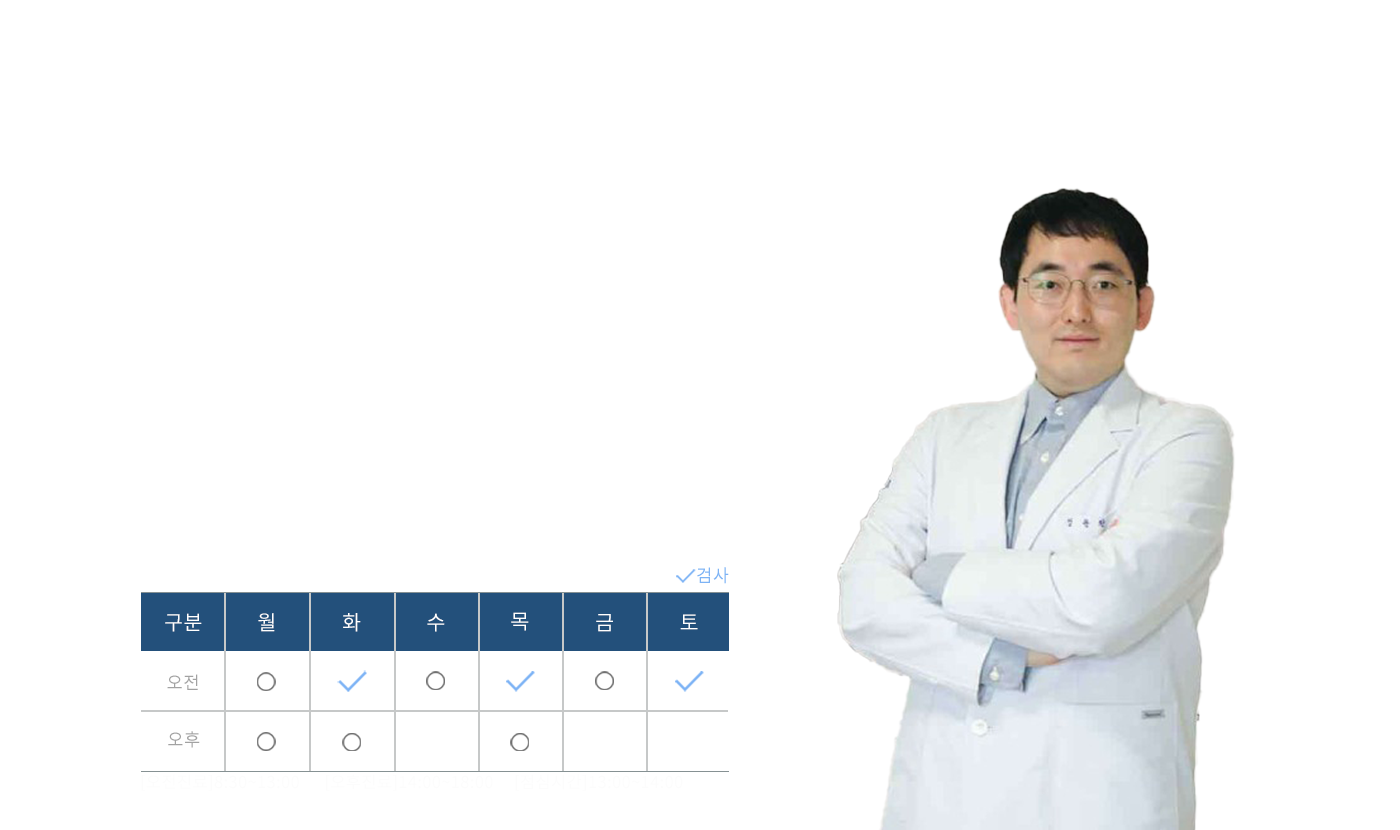
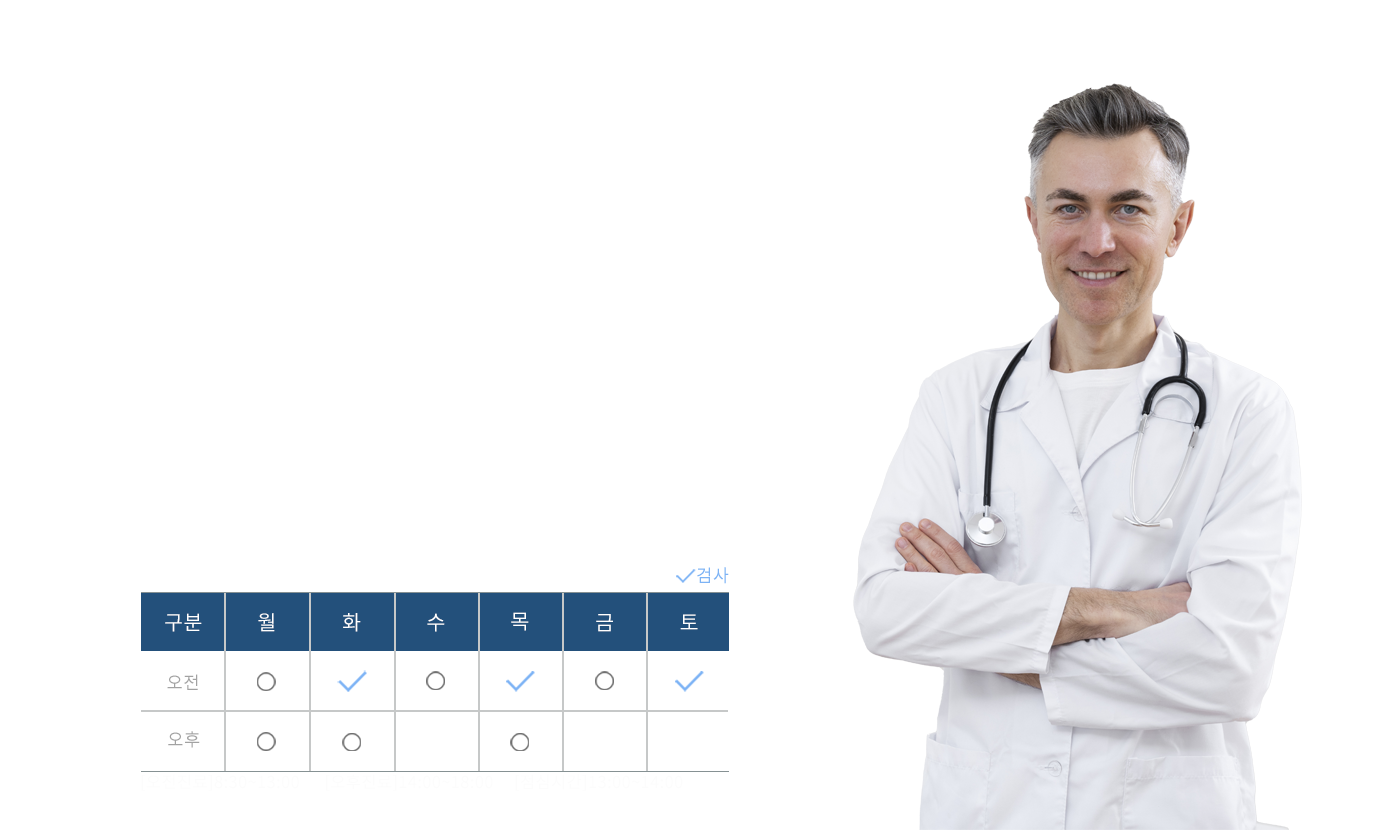
file_10 commit

Changed region(s): [[0.5836, 0.0904, 0.9214, 1.0]]

diff --git a/hyperdoctor_sample_2/index.html b/hyperdoctor_sample_2/index.html
@@ -3,7 +3,7 @@
 <head>
     <meta charset="UTF-8">
     <meta name="viewport" content="width=device-width, initial-scale=1.0, maximum-scale=1, minimum-scale=1">
-    <title>서울 W 내과 위례점</title>
+    <title>하이퍼 메디컬 병원</title>
     <link rel="stylesheet" href="css/style.css">
     <link rel="stylesheet" href="css/animate.min.css">
     <link rel="stylesheet" href="css/slick.css">
@@ -23,7 +23,7 @@
     <!-- s:open graph -->
     <meta property="og:title" content="HYPER MEDICINE Hospital">
     <meta property="og:url" content="">
-    <meta property="og:image" content="http://w-seongnam.com/images/kakao.png">
+    <meta property="og:image" content="">
     <meta property="og:type" content="website">
     <meta property="og:description" content="하이퍼 메디컬 병원입니다.">
 </head>
@@ -68,20 +68,20 @@
         <section id="section01" class="visual">
             <div class="slide">
                 <div class="visual01">
-                    <img src="img/visual_01-txt.png" alt="">
+                    <img src="img/visual_01-txt-1.png" alt="">
                 </div>
                 <div class="visual02">
-                    <img src="img/visual_02-txt.png" alt="">
+                    <img src="img/visual_02-txt-1.png" alt="">
                 </div>
                 <div class="visual03">
-                    <img src="img/visual_03-txt.png" alt="">
+                    <img src="img/visual_03-txt-1.png" alt="">
                 </div>
             </div>
         </section>
         <!-- SE02 -->
         <section id="section02" class="subJect">
             <div id="inner">
-                <h2 class="Tit animate" data-animate="fadeIn" data-duration="1s" data-delay="0s"><span>W-MEDICAL CENTER wirye</span><br>[ CLINIC SUBJECT ]<p>진료과목에 대해 안내드립니다.</p></h2>
+                <h2 class="Tit animate" data-animate="fadeIn" data-duration="1s" data-delay="0s"><span>HYPER MEDICAL CENTER</span><br>[ CLINIC SUBJECT ]<p>진료과목에 대해 안내드립니다.</p></h2>
                 <div class="layout-gird animate" data-animate="fadeIn" data-duration="1s" data-delay="0s">
                     <div class="subJect_cont1 animate" data-animate="fadeIn" data-duration="1s" data-delay="0s">
                         <div class="cardHeader">
@@ -195,17 +195,17 @@
         <!-- SE03 -->
         <section id="section03" class="aboutUs">
             <div id="inner" >
-                <h2 class="Tit animate" data-animate="fadeIn" data-duration="1s" data-delay="0s"><span>W-MEDICAL CENTER wirye</span><br>[ CLINIC SPECIALIST ]<p>우리동네 의료진을 소개합니다.</p></h2>
+                <h2 class="Tit animate" data-animate="fadeIn" data-duration="1s" data-delay="0s"><span>HYPER MEDICAL CENTER</span><br>[ CLINIC SPECIALIST ]<p>우리동네 의료진을 소개합니다.</p></h2>
                 <div class="upper">
                     <div class="swiper mySwiper">
                         <div class="swiper-wrapper">
                             <div class="swiper-slide">
-                                <img src="./img/SE03_about_int.png" alt="정문찬원장님약력_pc" class="onlyPc"/>
-                                <img src="./img/SE03_about_int-mo.png" alt="정문찬원장님약력_mo" class="onlyM"/>
+                                <img src="./img/SE03_about_int.png" alt="홍길동장님약력_pc" class="onlyPc"/>
+                                <img src="./img/SE03_about_int-mo.png" alt="홍길동원장님약력_mo" class="onlyM"/>
                             </div>
                             <div class="swiper-slide">
-                                <img src="./img/SE03_about_int.png" alt="박진주원장님약력_pc" class="onlyPc"/>
-                                <img src="./img/SE03_about_int-mo.png" alt="박진주원장님약력_pc" class="onlyM"/>
+                                <img src="./img/SE03_about_int-2.png" alt="홍길동원장님약력_pc" class="onlyPc"/>
+                                <img src="./img/SE03_about_int-mo.png" alt="홍길동원장님약력_pc" class="onlyM"/>
                             </div>
                         </div>
 
@@ -217,7 +217,7 @@
                     
                     <script>
                         //의료진소개
-                        var bullet = ['정문찬 원장', '정문찬원장'];
+                        var bullet = ['홍길동 원장', '홍길동원장'];
                         var swiper = new Swiper('.mySwiper', {
                             
                         pagination: {
@@ -254,7 +254,7 @@
             </div>
             <div id="inner">
                
-                <h2 class="Tit animate" data-animate="fadeIn" data-duration="1s" data-delay="0s"><span>W-MEDICAL CENTER wirye</span><br>[ 건강검진센터 ] 
+                <h2 class="Tit animate" data-animate="fadeIn" data-duration="1s" data-delay="0s"><span>HYPER MEDICAL CENTER wirye</span><br>[ 건강검진센터 ] 
                 </h2>
 
                 <div class="contTop">
@@ -572,7 +572,7 @@
         <!-- footer -->
         <footer>
             <div id="inner">
-                <h5 class="ftrLogo"><img src="img/footerLogo.png" alt="푸터로고"></h5>
+                <h5 class="ftrLogo"><img src="img/footerLogo-2.png" alt="푸터로고"></h5>
                 <p class="txt">서울 W내과 위례점 대표: 정문찬 | 사업자 번호: 303-92-02090<br>
                                소재지: 경기도 하남시 학암동 653 가락공판장건물 3층<br>
                                <span>2023©서울W내과-위례점 All rights reserved.</span> </p>

diff --git a/hyperdoctor_sample_2/css/style.css b/hyperdoctor_sample_2/css/style.css
@@ -1,4 +1,6 @@
 @charset "utf-8";
+@import url("https://fonts.googleapis.com/css2?family=Noto+Sans+KR:wght@300;400;500;700;900&family=Russo+One&display=swap");
+
 
 /* reset */
 * {margin: 0;padding: 0;}
@@ -69,7 +71,7 @@ body {
   #top_group h1 {
     width: 270px;
     height: 52px;
-    background: url(../img/Logo-2.png) no-repeat;
+    background: url(../img/Logo-3.png) no-repeat;
     text-indent: -9999px;
     position: absolute;
     top: 50%;
@@ -119,7 +121,7 @@ body {
 .visual .slide {width: 100%;height: 100%;border: none;}
 .visual .slide .visual01 {
   position: relative;
-  background: url(../img/visual_01.png) center;
+  background: url(../img/visual_01-1.png) center;
   background-size: cover;
 }
 .visual .slide .visual01 img {
@@ -130,7 +132,7 @@ body {
 }
 .visual .slide .visual02 {
   position: relative;
-  background: url(../img/visual_02.png) center;
+  background: url(../img/visual_02-1.png) center;
   background-size: cover;
   position: relative;
 }
@@ -251,7 +253,7 @@ body {
 
 
 /* SE03 */
-.aboutUs {width: 100%;height: 100%;margin: 0 auto;overflow: hidden;padding-top: 130px;background: url(../img/SE03_about-bg.png);background-attachment: fixed;background-size: cover; overflow: hidden;}
+.aboutUs {width: 100%;height: 100%;margin: 0 auto;overflow: hidden;padding-top: 130px;background: url(../img/SE03_about-bg-1.png);background-attachment: fixed;background-size: cover; overflow: hidden;}
 .aboutUs #inner h2.Tit {color: #fff;margin-bottom: 30px;}
 
 
@@ -982,14 +984,14 @@ footer #inner .txt {
 
 .visual .slide .visual01  {
   width: 100%;
-  background: url(../img/visual_01-tablet.png);
+  background: url(../img/visual_01-tablet-1.png);
   background-repeat: no-repeat;
 
 }
 
 .visual .slide .visual02  {
   width: 100%;
-  background: url(../img/visual_02-tablet.png);
+  background: url(../img/visual_02-tablet-1.png);
   background-repeat: no-repeat;
 }
 
@@ -1922,7 +1924,15 @@ footer #inner .tablet-txt span {color: #ebebeb;font-size: 0.5rem;}
       }
 }
 
+/* 480px~767px */
+@media screen and (min-width: 480px) and (max-width:767px){
 
+
+  #top_group #logo {
+    background: url(../img/mo_logo-2.png) no-repeat !important;
+  }
+
+}
 /* 479px */
   @media screen and (max-width: 479px) {
 
@@ -1936,7 +1946,7 @@ footer #inner .tablet-txt span {color: #ebebeb;font-size: 0.5rem;}
       top: 50% !important;
       -webkit-transform: translate(0, -50%) !important;
               transform: translate(0, -50%) !important;
-      background: url(../img/mo_logo.png) no-repeat !important;
+      background: url(../img/mo_logo-2.png) no-repeat !important;
     }
     #top_group {
       height: 80px !important;

diff --git a/hyperdoctor_sample_1/index.html b/hyperdoctor_sample_1/index.html
@@ -353,10 +353,10 @@
                 <p class="txt">하이퍼 메디컬 대표: 홍길동 | 사업자 번호: 123-45-6789 <br>
                                소재지: 서울특별시 관악구 남부순환로 1811 신원메트로빌 609호<br>
                                <span>2023©하이퍼 메디걸 All rights reserved.</span> </p>
-                <p class="mo-txt">하이퍼 메디컬 대표: 정문찬 <br>사업자 번호: 123-45-6789 
+                <p class="mo-txt">하이퍼 메디컬 대표: 홍길동 <br>사업자 번호: 123-45-6789 
                                 소재지: 서울특별시 관악구 남부순환로 1811 신원메트로빌 609호<br>
                                 <span>2023©하이퍼 메디걸 All rights reserved.</span> </p>
-                <p class="tablet-txt">하이퍼 메디컬 대표: 정문찬 사업자 번호: 123-45-6789 <br>
+                <p class="tablet-txt">하이퍼 메디컬 대표: 홍길동 사업자 번호: 123-45-6789 <br>
                                     소재지:서울특별시 관악구 남부순환로 1811 신원메트로빌 609호<br>
                                     <span>2023©하이퍼 메디걸 All rights reserved.</span> </p>
             </div>

diff --git a/css/main.css b/css/main.css
@@ -123,7 +123,7 @@ li {list-style: none;}
 #section4 #inner .slideBox .list li a .txtBox {position: absolute;top:50%;left: 50%;transform: translate(-50%,-50%);text-align: center;color: #fff;}
 #section4 #inner .slideBox .list li a .txtBox> .title {font-size: 3.5em;font-weight: bold;}
 #section4 #inner .slideBox .list li a .txtBox> .txt {font-size: 1.9em;font-weight: normal;}
-#section4 #inner .slideBox .list li a .moreBtn {font-size: 3.5em;position: absolute;left: 50%;bottom: 0px;transform: translateX(-50%);color: #fff;background: #f8b922;width: 100%;text-align: center;padding: 40px 10px;box-sizing: border-box;}
+#section4 #inner .slideBox .list li a .moreBtn {font-size: 2.5em;position: absolute;left: 50%;bottom: 0px;transform: translateX(-50%);color: #fff;background: #f8b922;width: 100%;text-align: center;padding: 40px 10px;box-sizing: border-box;}
 /* #section4 #inner .slideBox {width: 1200px; margin:auto;position: relative; height: 500px; margin-top: 50px;}
 #section4 #inner .slideBox .list {width: 1500px; position:absolute; right: -50%;}
 #section4 #inner .slideBox .list li { float: left; margin-right: 40px;}
